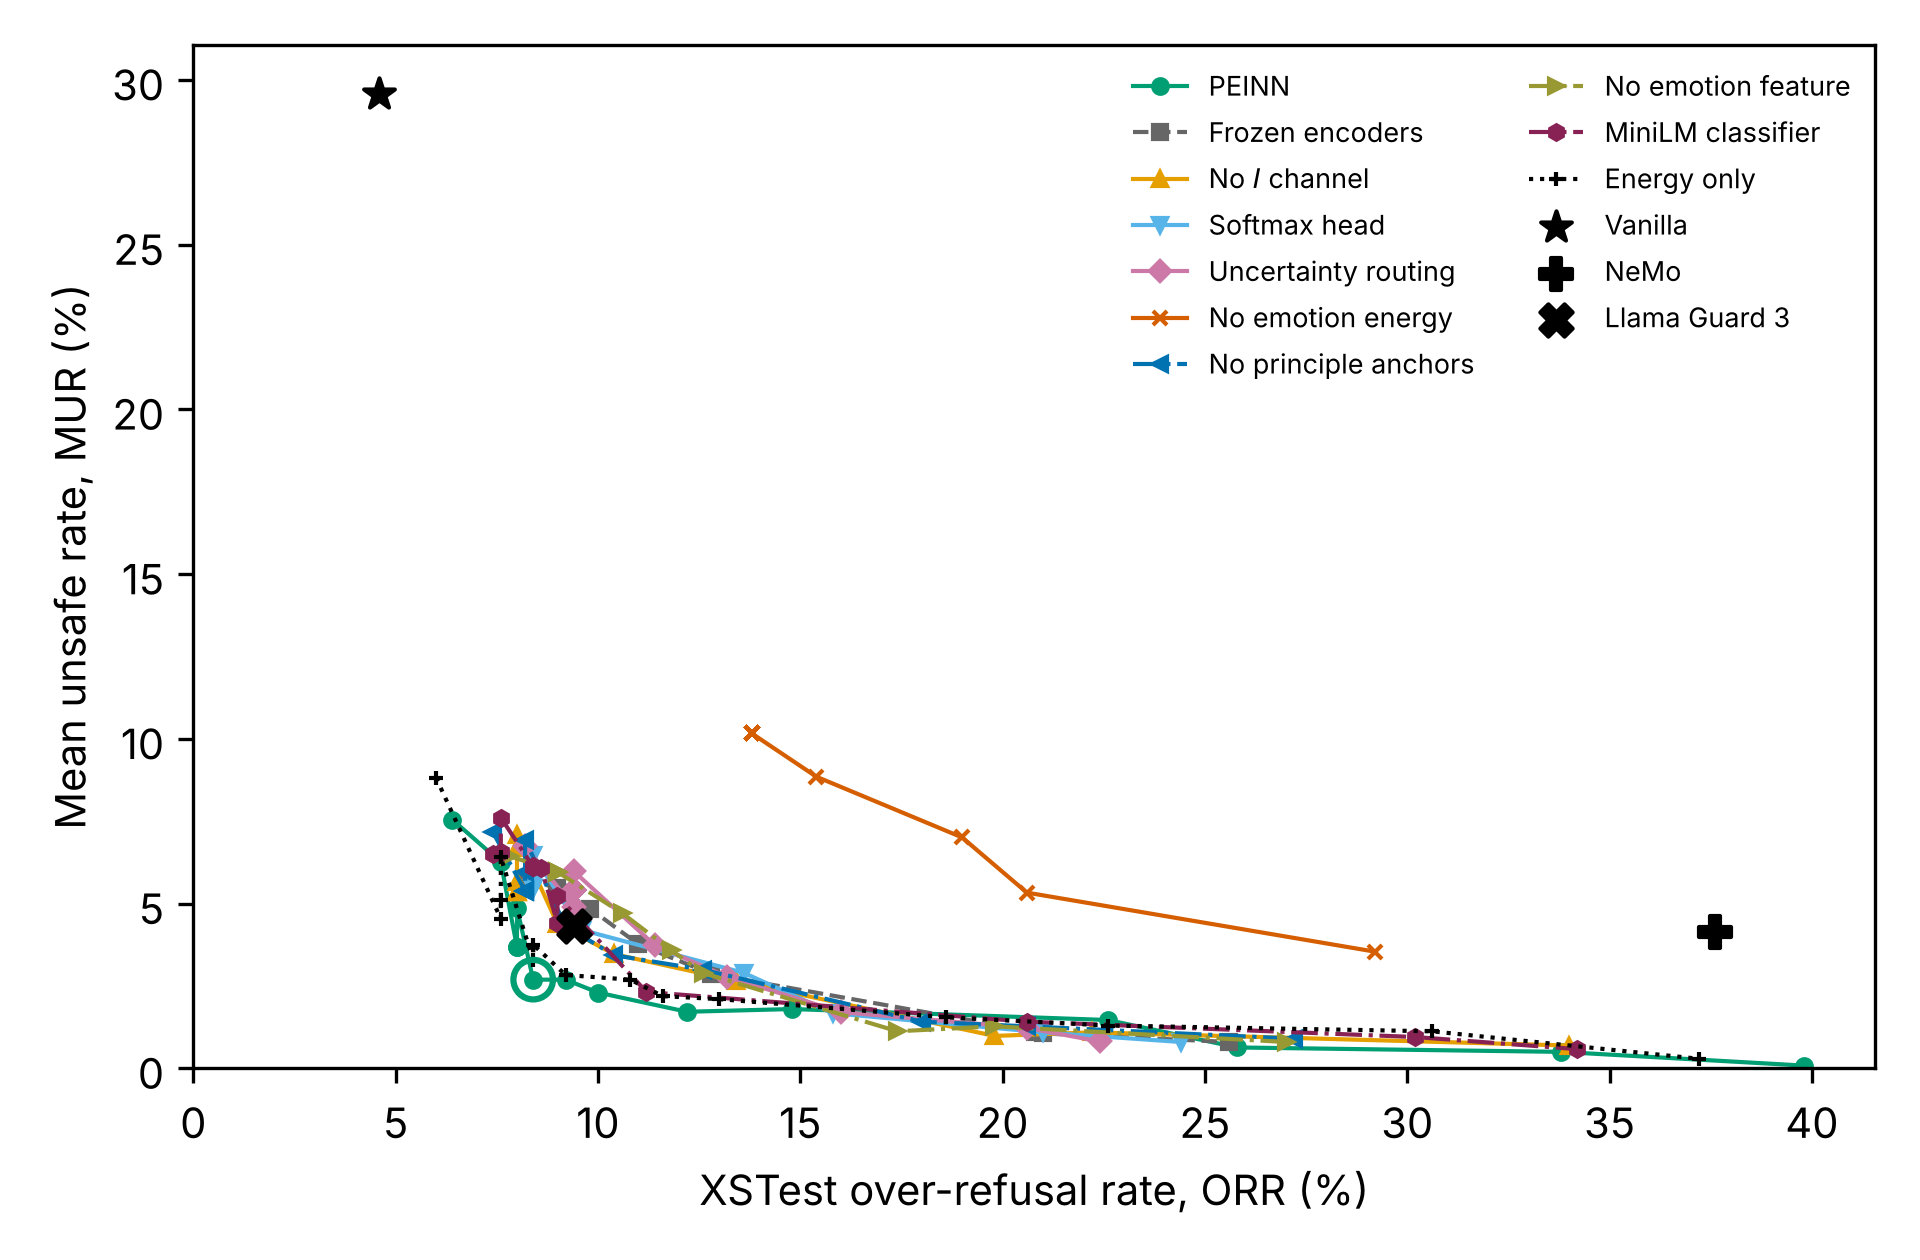
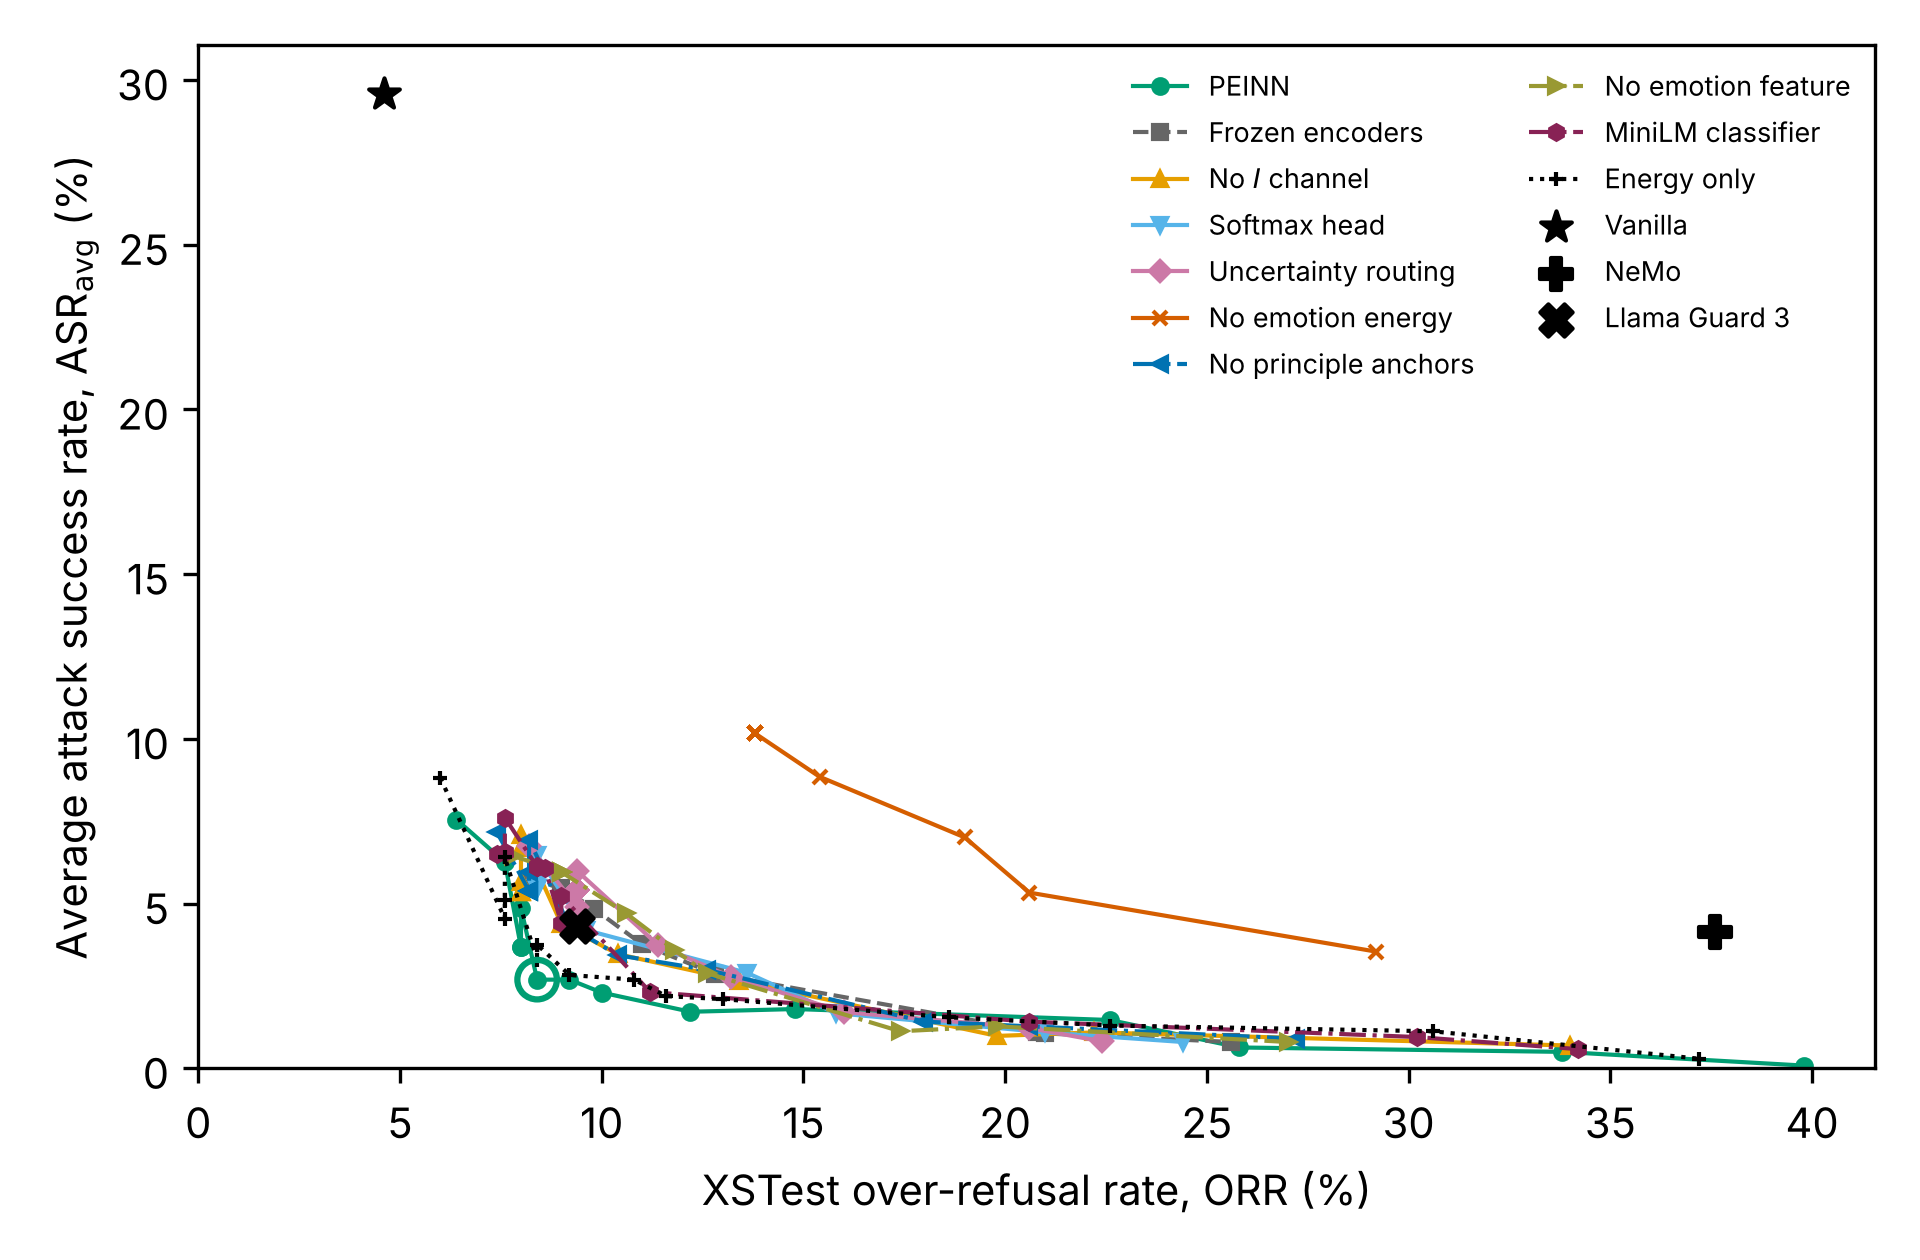
Ablation figure: the composite safety axis is labelled average attack success rate (ASR_avg)
Claude-Session: https://claude.ai/code/session_01EYuobj3uWoUKAsLA4THHsZ

diff --git a/revision/aai_r1/v21r/paper_ablation.py b/revision/aai_r1/v21r/paper_ablation.py
@@ -12,7 +12,7 @@ routing text (analyze.assemble). Variants:
         fitted on val by the first-stage rule (harmful Hard-block >= 85 %, safe Hard-block < cap) with no F condition.
 Each variant and operating point gets UCR (mean of HarmBench ASR, Taxonomy unsafe rate, XSTest UCR), XSTest ORR,
 the Ethics composite and MORABLES clean accuracy per base; A8 and the defences come from bench_stats.json. The paper
-calls this composite the mean unsafe rate (MUR), apart from the XSTest UCR. `matched` gives, for each variant with
+calls this composite the average attack success rate (ASR_avg), apart from the XSTest UCR. `matched` gives, for each variant with
 operating points, the lowest mean UCR over its caps whose mean ORR does not exceed the reference's ORR at the main cap
 (PEINN for the encoder and routing variants, A0 for the component variants; R1-3, matched comparison).
 """
@@ -204,7 +204,7 @@ def curves(out: dict, caps, o) -> None:
     m = out["variants"][MAIN]
     ax.scatter([_mean(m, "orr")], [_mean(m, "ucr")], s=90, facecolor="none", edgecolor="#009e73", lw=1.5, zorder=4)
     ax.set_xlabel("XSTest over-refusal rate, ORR (%)")
-    ax.set_ylabel("Mean unsafe rate, MUR (%)")
+    ax.set_ylabel(r"Average attack success rate, ASR$_{\mathrm{avg}}$ (%)")
     ax.legend(fontsize=6.5, frameon=False, ncol=2)
     ax.set_xlim(left=0)
     ax.set_ylim(bottom=0)
